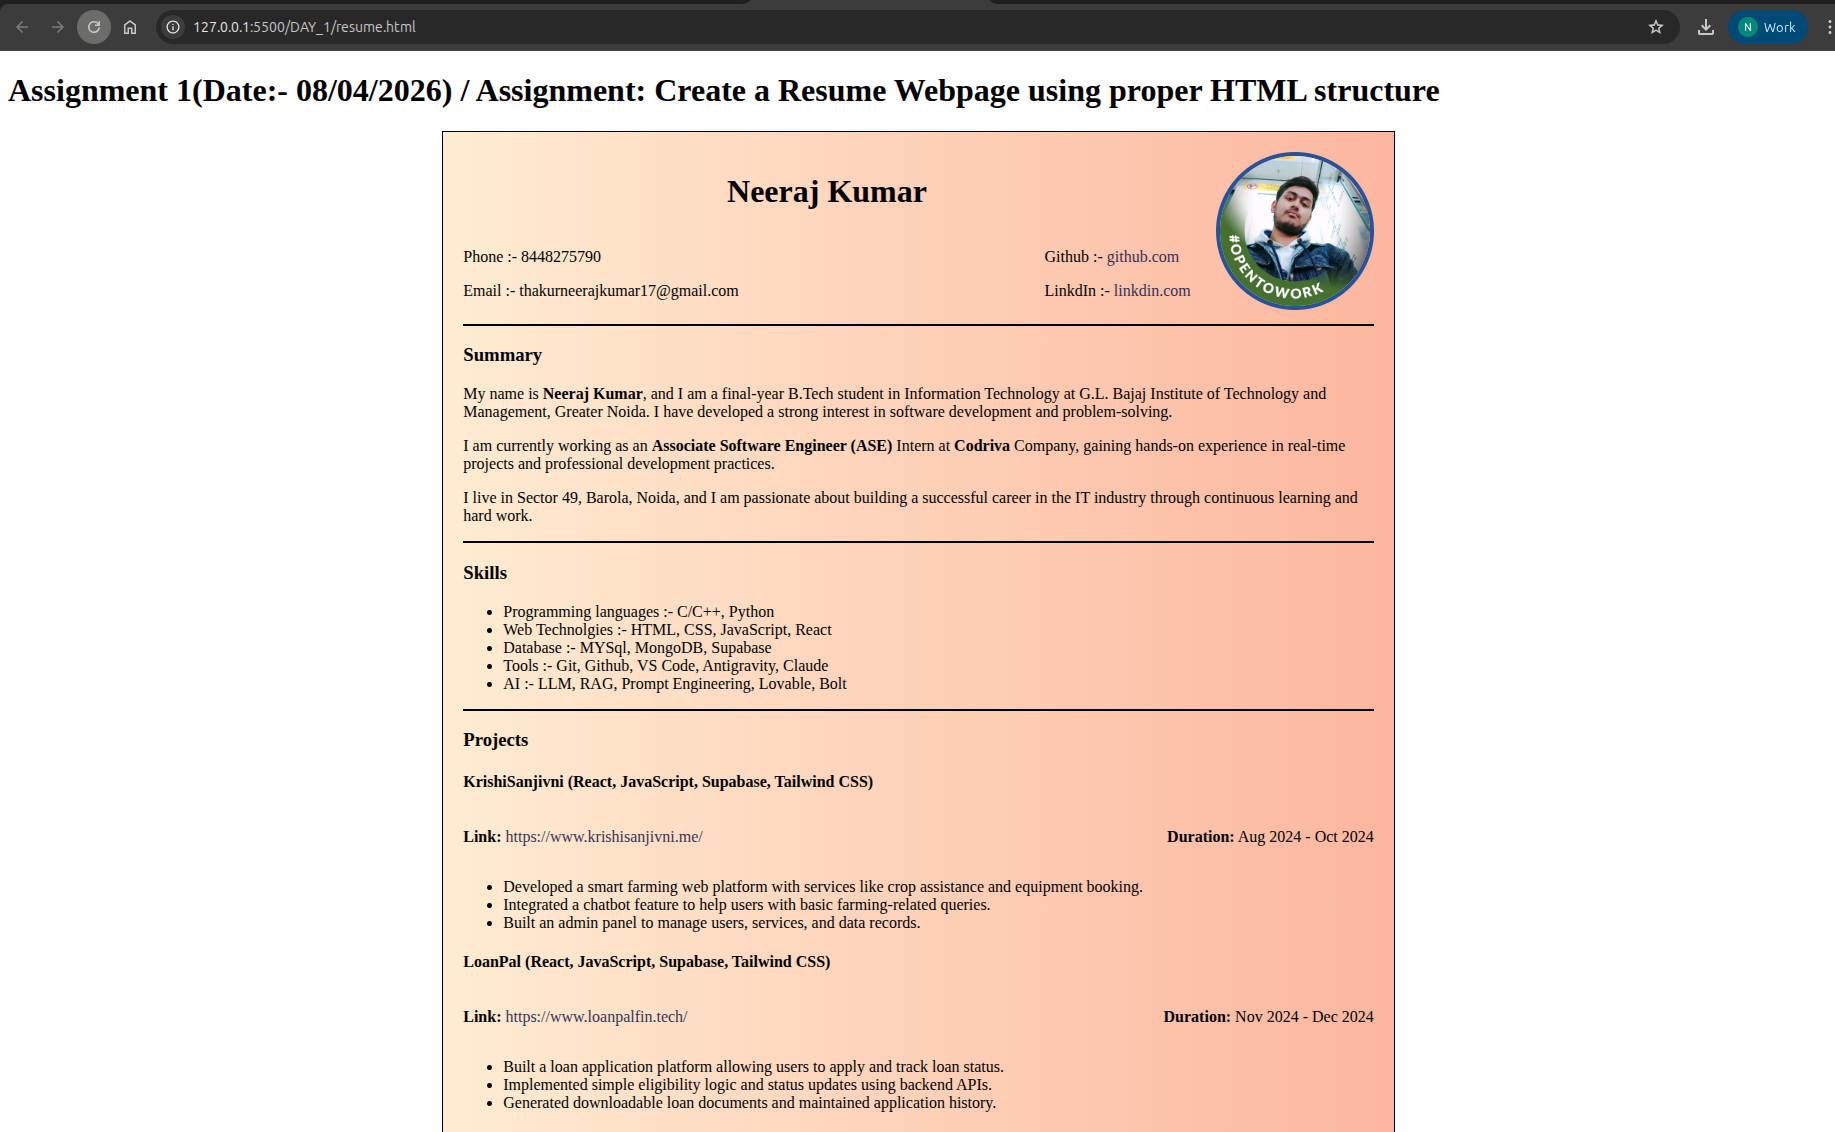
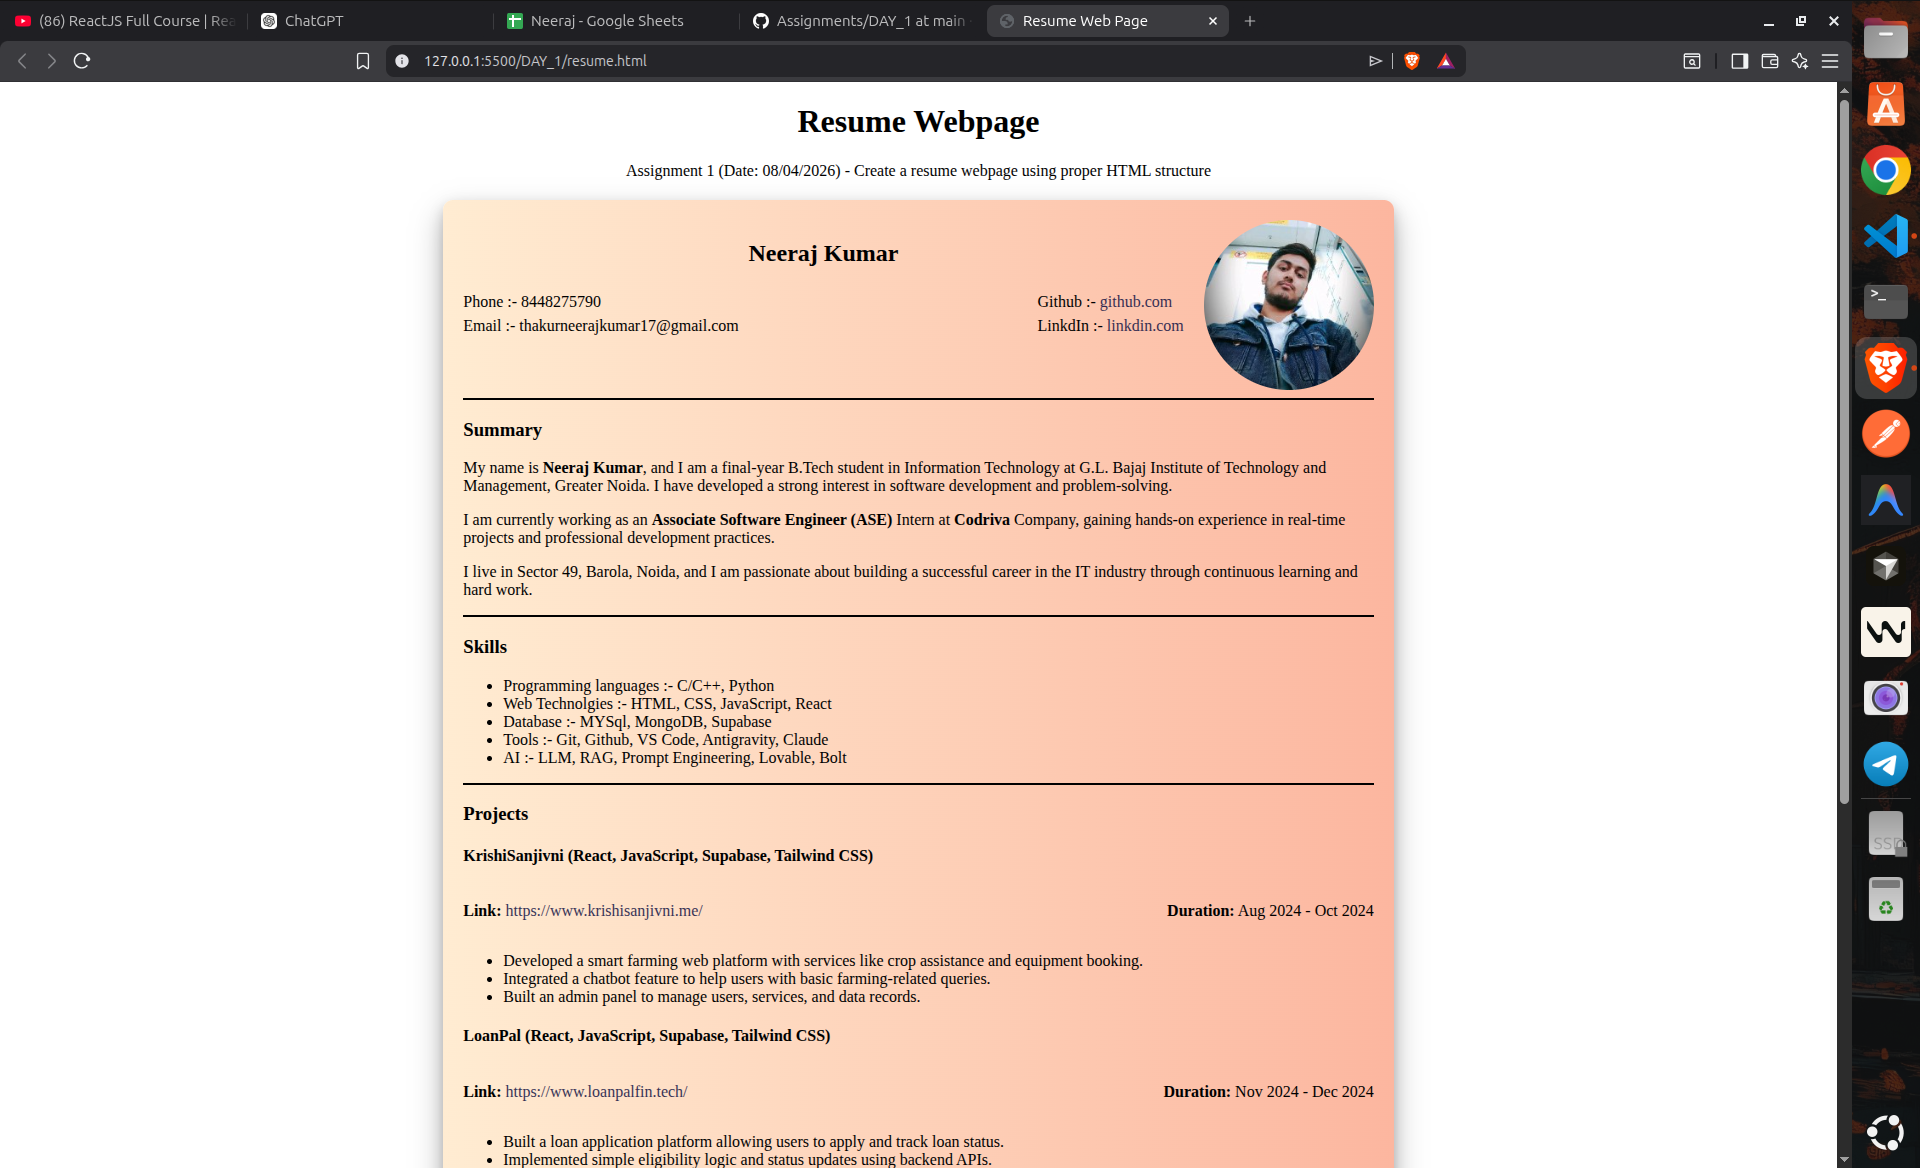
update images and output.

Changed region(s): [[0.0, 0.0, 1.0, 1.0], [0.4038, 0.2164, 0.4659, 0.2473]]

diff --git a/DAY_1/resume.html b/DAY_1/resume.html
@@ -89,7 +89,7 @@
                 </div>
             </div>
 
-            <img src="/neeraj.jpeg" alt="Profile-Photo">
+            <img src="./neeraj.jpeg" alt="Profile-Photo">
         </div>
         <hr>
         <h3>Summary</h3>
